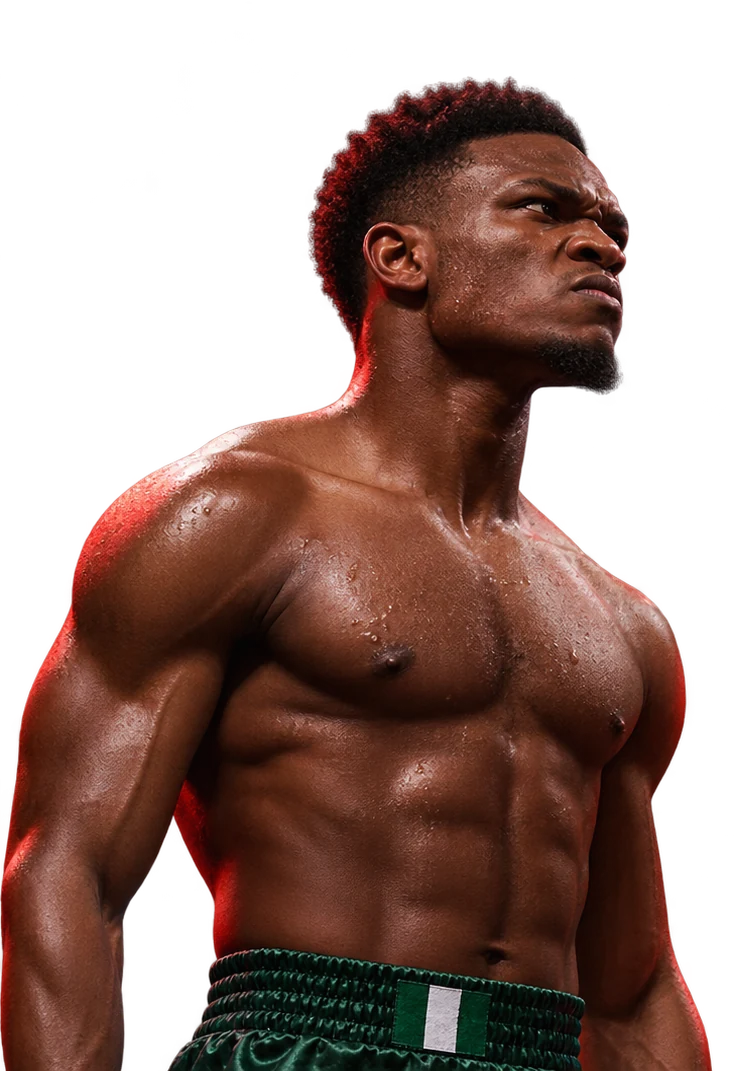
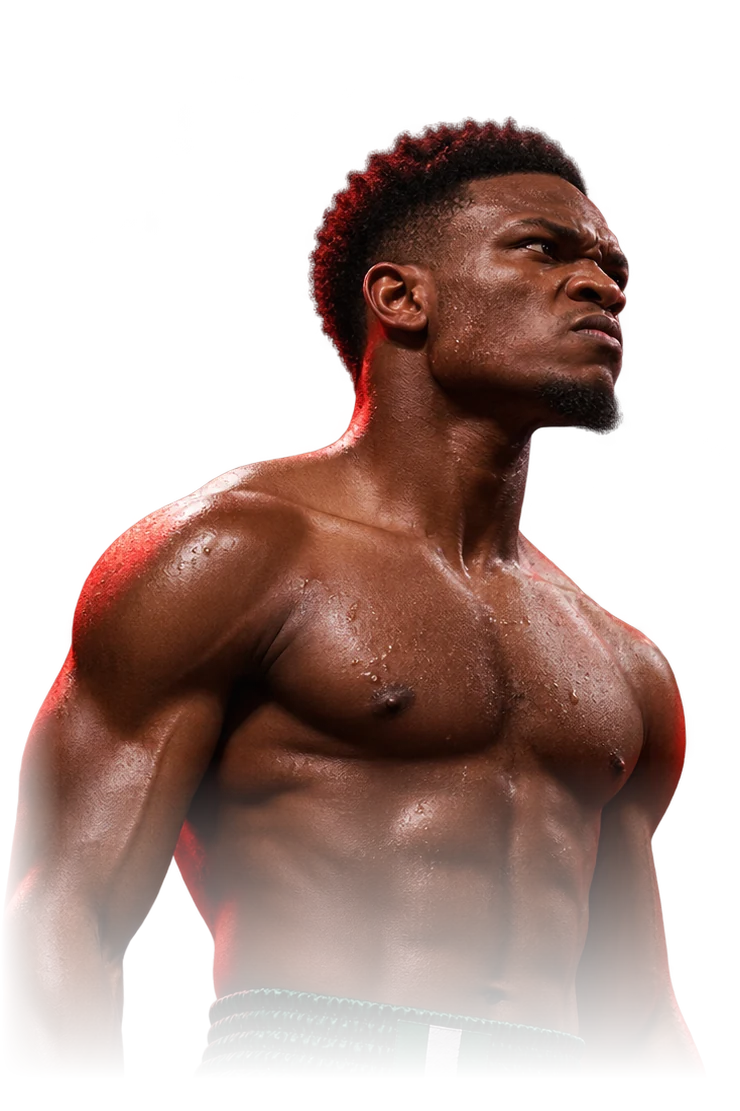
Chaos in the Ring: stop fighters being cut off
- Feather the cutout edges (hair at the top, forearm and back at the
  sides) and bake the waist fade into the images
- Drop the mask on the hero stage that sliced the fighters in straight
  lines whenever they slid in or drifted apart on scroll
- Main event cards use the same fighter cutouts on the hero texture

Claude-Session: https://claude.ai/code/session_01VbMjuwXpQ777f66UoZCrBq

diff --git a/chaos-in-the-ring/index.html b/chaos-in-the-ring/index.html
@@ -85,7 +85,7 @@ nav .btn{min-height:44px;padding:0 18px;font-size:13px}
 .smoke.s1{left:-15vw;bottom:-10vw}.smoke.s2{right:-20vw;top:10vh;animation-duration:28s;animation-direction:alternate-reverse}
 @keyframes smoke{to{transform:translate(12vw,-4vw) scale(1.2)}}
 .hero-logo{position:relative;z-index:5;width:clamp(64px,7vw,92px);margin:0 auto 4px;filter:drop-shadow(0 4px 14px rgba(40,0,0,.6))}
-.stage{position:relative;z-index:2;width:var(--sw);aspect-ratio:1468/1071;-webkit-mask-image:linear-gradient(180deg,#000 72%,transparent 99%);mask-image:linear-gradient(180deg,#000 72%,transparent 99%)}
+.stage{position:relative;z-index:2;width:var(--sw);aspect-ratio:1468/1111}
 .fighter{position:absolute;top:0;height:100%;width:auto;max-width:none;filter:drop-shadow(0 0 28px rgba(255,30,10,.35)) drop-shadow(0 30px 40px rgba(0,0,0,.45))}
 .fl{left:0;width:50.4%}.fr{right:0;width:49.6%}
 .rope{position:absolute;left:-20vw;width:140vw;height:clamp(14px,2vw,28px);border-radius:99px;pointer-events:none;
@@ -93,7 +93,7 @@ nav .btn{min-height:44px;padding:0 18px;font-size:13px}
 .rope.a{top:26%;rotate:-11deg;z-index:1;filter:blur(4px);opacity:.85}.rope.b{top:60%;rotate:-11deg;z-index:3;filter:blur(3px)}
 #sparks{position:absolute;inset:0;z-index:4;pointer-events:none;width:100%;height:100%}
 .flash{position:absolute;inset:0;z-index:6;background:#fff;opacity:0;pointer-events:none}
-.titleblock{position:relative;z-index:5;margin-top:calc(var(--sw) * -.27);width:min(100%,calc(var(--sw) * .98));text-align:center}
+.titleblock{position:relative;z-index:5;margin-top:calc(var(--sw) * -.29);width:min(100%,calc(var(--sw) * .98));text-align:center}
 .titleblock h1{margin:0}
 .titleblock h1 img{width:100%;filter:drop-shadow(0 18px 26px rgba(30,0,0,.75))}
 .tag{font:900 clamp(18px,2.6vw,32px)/1.15 Montserrat;text-transform:uppercase;letter-spacing:.06em;margin:0;text-shadow:0 4px 18px rgba(60,0,0,.7)}
@@ -117,8 +117,8 @@ nav .btn{min-height:44px;padding:0 18px;font-size:13px}
 .clock small{display:block;margin-top:6px;font:700 12px Montserrat;text-transform:uppercase;letter-spacing:.1em}
 /* ---------- TALE OF THE TAPE ---------- */
 .faceoff{display:grid;grid-template-columns:minmax(0,1fr) minmax(0,1.1fr) minmax(0,1fr);gap:clamp(14px,3vw,40px);align-items:end}
-.corner{position:relative;border-radius:6px;overflow:hidden;background:var(--red2);margin:0;box-shadow:0 30px 60px rgba(0,0,0,.55);transform-style:preserve-3d}
-.corner img{width:100%;aspect-ratio:4/5;object-fit:cover;object-position:center 15%;transition:transform .8s cubic-bezier(.2,.8,.2,1)}
+.corner{position:relative;border-radius:6px;overflow:hidden;background:url(hero-bg.jpg) center/cover var(--red2);margin:0;box-shadow:0 30px 60px rgba(0,0,0,.55);transform-style:preserve-3d}
+.corner img{width:100%;aspect-ratio:4/5;object-fit:cover;object-position:center 0;filter:drop-shadow(0 0 22px rgba(255,30,10,.35));transition:transform .8s cubic-bezier(.2,.8,.2,1)}
 .corner:hover img{transform:scale(1.07)}
 .corner::after{content:"";position:absolute;inset:0;background:url(grunge.png) 0 0/300px;mix-blend-mode:multiply;opacity:.5;pointer-events:none}
 .corner figcaption{position:absolute;inset:auto 0 0;z-index:2;padding:70px 18px 16px;background:linear-gradient(transparent,rgba(20,1,1,.95))}
@@ -217,8 +217,8 @@ footer .flogo{display:flex;align-items:center;gap:12px}footer .flogo img{width:4
   <img class="hero-logo" src="logo.png" alt="Balmoral Group Promotions logo" width="181" height="158">
   <div class="smoke s1" aria-hidden="true"></div><div class="smoke s2" aria-hidden="true"></div>
   <div class="stage" aria-hidden="true">
-    <img class="fighter fl" src="fighter-l.webp" alt="" width="740" height="1071">
-    <img class="fighter fr" src="fighter-r.webp" alt="" width="728" height="1071">
+    <img class="fighter fl" src="fighter-l.webp" alt="" width="740" height="1111">
+    <img class="fighter fr" src="fighter-r.webp" alt="" width="728" height="1111">
   </div>
   <div class="rope a" aria-hidden="true"></div>
   <div class="rope b" aria-hidden="true"></div>
@@ -251,12 +251,12 @@ footer .flogo{display:flex;align-items:center;gap:12px}footer .flogo img{width:4
     <h2 class="rv">Main event</h2>
     <p class="lede up">Two heavyweights, one ring, no way out. The bout the whole of Lagos has been arguing about finally gets settled under the lights.</p>
     <div class="faceoff">
-      <figure class="corner c1"><img src="left.jpg" alt="The red-corner fighter in a fighting stance"><figcaption><h3 id="f1name"></h3><p id="f1nick"></p></figcaption></figure>
+      <figure class="corner c1"><img src="fighter-l.webp" alt="The red-corner fighter in green trunks, staring down his opponent"><figcaption><h3 id="f1name"></h3><p id="f1nick"></p></figcaption></figure>
       <div class="mid">
         <div class="vs">VS</div>
         <table class="stats" aria-label="Tale of the tape"><tbody id="tapeRows"></tbody></table>
       </div>
-      <figure class="corner c2"><img src="right.jpg" alt="The blue-corner fighter staring down his opponent"><figcaption><h3 id="f2name"></h3><p id="f2nick"></p></figcaption></figure>
+      <figure class="corner c2"><img src="fighter-r.webp" alt="The blue-corner fighter in white trunks, staring down his opponent"><figcaption><h3 id="f2name"></h3><p id="f2nick"></p></figcaption></figure>
     </div>
     <p class="note">Fighter names, records, card, schedule, prices and venue are sample details — swap in the confirmed ones in the settings block at the bottom of this page.</p>
   </div>
@@ -501,7 +501,7 @@ if(window.gsap&&!reduced){
     .from('nav',{opacity:0,duration:.5},'-=.3');
   /* hero scroll parallax */
   const hs={trigger:'.hero',start:'top top',end:'bottom top',scrub:.6};
-  gsap.to('.fl',{xPercent:-12,scrollTrigger:hs});gsap.to('.fr',{xPercent:12,scrollTrigger:hs});
+  gsap.to('.fl',{xPercent:-6,scrollTrigger:hs});gsap.to('.fr',{xPercent:6,scrollTrigger:hs});
   gsap.to('.titleblock',{yPercent:30,scale:.92,opacity:.2,scrollTrigger:hs});
   gsap.to('.rope.a',{y:-120,scrollTrigger:hs});gsap.to('.rope.b',{y:-60,scrollTrigger:hs});
   gsap.to('.backdrop',{yPercent:12,scrollTrigger:hs});
